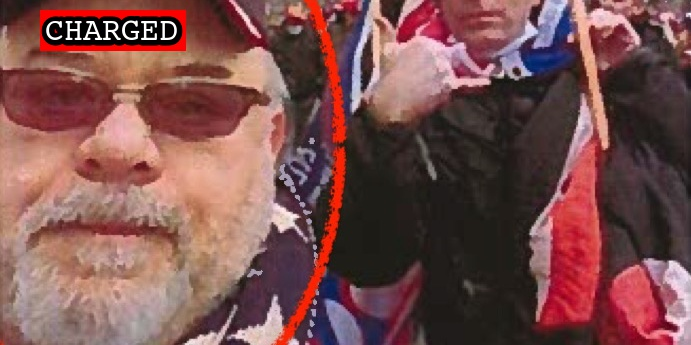
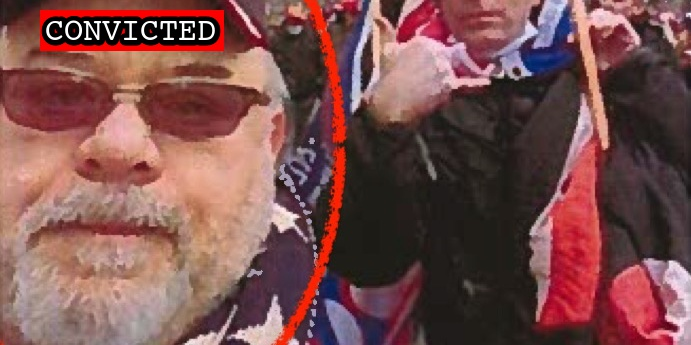
Latest import

Changed region(s): [[0.0912, 0.029, 0.3343, 0.1739]]

diff --git a/docs/_suspects/mark-mazza.md b/docs/_suspects/mark-mazza.md
@@ -4,15 +4,17 @@ lastName: Mazza
 hashtag: MarkMazza
 aka:
 residence: Indiana
-status: Charged
+status: Convicted
 date: 2021-11-12
 charged: 2021-11-12
-indicted:
-convicted:
+indicted: 2021-12-15
+convicted: 2022-06-17
+acquitted:
 sentenced:
 dismissed:
 deceased:
-plea_hearing:
+plea_hearing: 2022-06-17
+trial_date:
 sentencing:
 age: 56
 occupation:
@@ -31,11 +33,23 @@ description: Click for latest case details. Suspects innocent until proven guilt
 author: seditiontrack
 layout: suspect
 published: true
-caseNumber:
+caseNumber: 1:21-cr-736
 videos:
 charges:
+  - code: 18 USC § 111(a)(1) and (b)
+    title: Assaulting, resisting, or impeding certain officers or employees using a dangerous or deadly weapon
+    url: https://www.law.cornell.edu/uscode/text/18/111
+    felony: true
+  - code: 22 DC § 4505(a)
+    title: Carrying a Pistol Without a License
+    url: https://code.dccouncil.us/us/dc/council/code/sections/22-4504.html
+    felony: true
 sentence:
 ---
+
 - [News Report](https://www.indystar.com/story/news/crime/2021/11/19/shelbyville-mark-mazza-arrested-capitol-riot-after-reporting-gun-stolen/8686112002/)
-- [Statement of Facts](https://www.justice.gov/usao-dc/press-release/file/1449771/download)
+- [Statement of Facts](https://www.justice.gov/usao-dc/case-multi-defendant/file/1513811/download)
 - [Application for Search Warrant](https://extremism.gwu.edu/sites/g/files/zaxdzs2191/f/Mark%20Andrew%20Mazza%20Search%20Warrant%20Application.pdf)
+- [Indictment](https://storage.courtlistener.com/recap/gov.uscourts.dcd.238499/gov.uscourts.dcd.238499.12.0.pdf)
+- [Plea Agreement](https://www.justice.gov/usao-dc/case-multi-defendant/file/1513816/download)
+- [Statement of Offense](https://www.justice.gov/usao-dc/case-multi-defendant/file/1513821/download)

diff --git a/docs/_suspects/matthew-clark.md b/docs/_suspects/matthew-clark.md
@@ -4,15 +4,17 @@ lastName: Clark
 hashtag: MattClark
 aka: Matt Clark
 residence: Pennsylvania
-status: Charged
+status: Convicted
 date: 2021-02-12
 charged: 2021-02-12
 indicted:
-convicted:
+convicted: 2022-06-17
+acquitted:
 sentenced:
 dismissed:
 deceased:
-plea_hearing:
+plea_hearing: 2022-06-17
+trial_date:
 sentencing:
 age:
 occupation:
@@ -34,9 +36,15 @@ published: true
 caseNumber: 1:21-cr-218
 videos:
 charges:
+- code: 40 USC § 5104(e)(2)(G)
+  title: Parading, demonstrating or picketing in a Capitol building
+  url: https://www.law.cornell.edu/uscode/text/40/5104
+  felony: false
 sentence:
 ---
 - [News Report](https://www.abc27.com/news/top-stories/three-mifflin-county-residents-charged-in-u-s-capitol-riot/)
 - [Statement of Facts](https://www.justice.gov/usao-dc/case-multi-defendant/file/1371321/download)
 - [DOJ Press Release](https://www.justice.gov/usao-dc/case-multi-defendant/file/1377831/download)
 - [Information](https://www.justice.gov/usao-dc/case-multi-defendant/file/1377831/download)
+- [Plea Agreement](https://www.justice.gov/usao-dc/case-multi-defendant/file/1513836/download)
+- [Statement of Offense](https://www.justice.gov/usao-dc/case-multi-defendant/file/1513841/download)

diff --git a/docs/_suspects/larry-stackhouse.md b/docs/_suspects/larry-stackhouse.md
@@ -4,13 +4,13 @@ lastName: Stackhouse
 hashtag: LarryStackhouse
 aka:
 residence: New Jersey
-status: Convicted
+status: Sentenced
 date: 2021-03-02
 charged: 2021-03-02
 indicted:
 convicted: 2022-02-04
 acquitted:
-sentenced:
+sentenced: 2022-06-17
 dismissed:
 deceased:
 plea_hearing: 2022-02-04
@@ -36,12 +36,16 @@ published: true
 caseNumber: 1:21-cr-240
 videos:
 charges:
-- code: 40 USC § 5104(e)(2)(G)
-  title: Parading, demonstrating or picketing in a Capitol building
-  url: https://www.law.cornell.edu/uscode/text/40/5104
-  felony: false
+  - code: 40 USC § 5104(e)(2)(G)
+    title: Parading, demonstrating or picketing in a Capitol building
+    url: https://www.law.cornell.edu/uscode/text/40/5104
+    felony: false
 sentence:
+  - 14 days in prison (intermittment)
+  - 36 months probation
+  - $500 restitution
 ---
+
 - [News Report](https://www.nj.com/camden/2021/03/nj-man-charged-in-capitol-riot-identified-by-coworkers-had-called-out-that-day-feds-say.html)
 - [Complaint](https://www.justice.gov/usao-dc/case-multi-defendant/file/1379366/download)
 - [Statement of Facts](https://www.justice.gov/usao-dc/case-multi-defendant/file/1379371/download)

diff --git a/docs/_suspects/traci-isaacs.md b/docs/_suspects/traci-isaacs.md
@@ -18,7 +18,7 @@ trial_date:
 sentencing:
 age: 52
 occupation:
-affiliations:
+affiliations: Oath Keepers
 jurisdiction: Federal
 image: /images/preview/traci-isaacs.jpg
 suspect: traci-isaacs.jpg

diff --git a/docs/_suspects/leslie-gray.md b/docs/_suspects/leslie-gray.md
@@ -18,7 +18,7 @@ trial_date:
 sentencing:
 age: 56
 occupation:
-affiliations:
+affiliations: Oath Keepers
 jurisdiction: Federal
 image: /images/preview/leslie-gray.jpg
 suspect: leslie-gray.jpg
